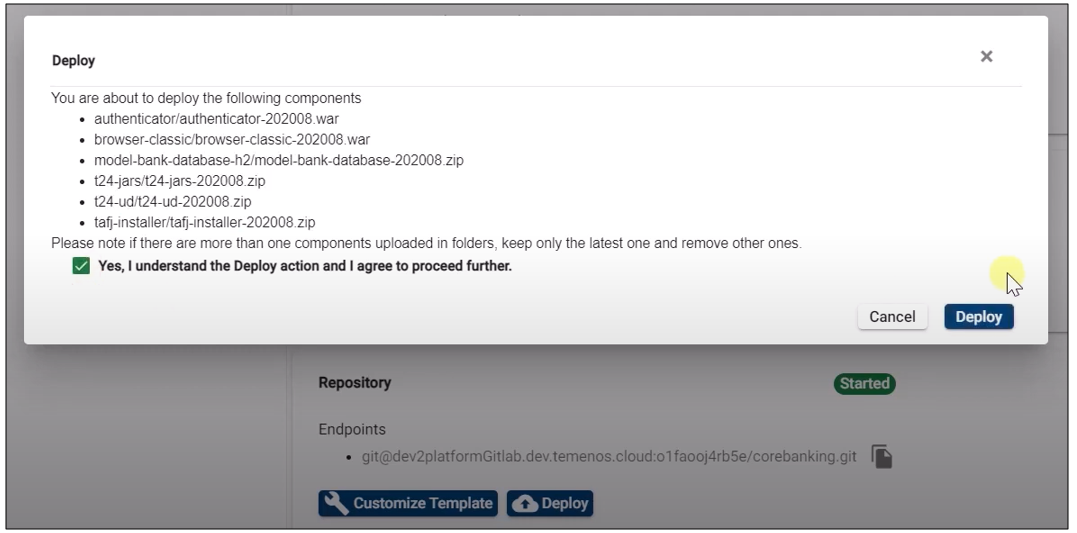
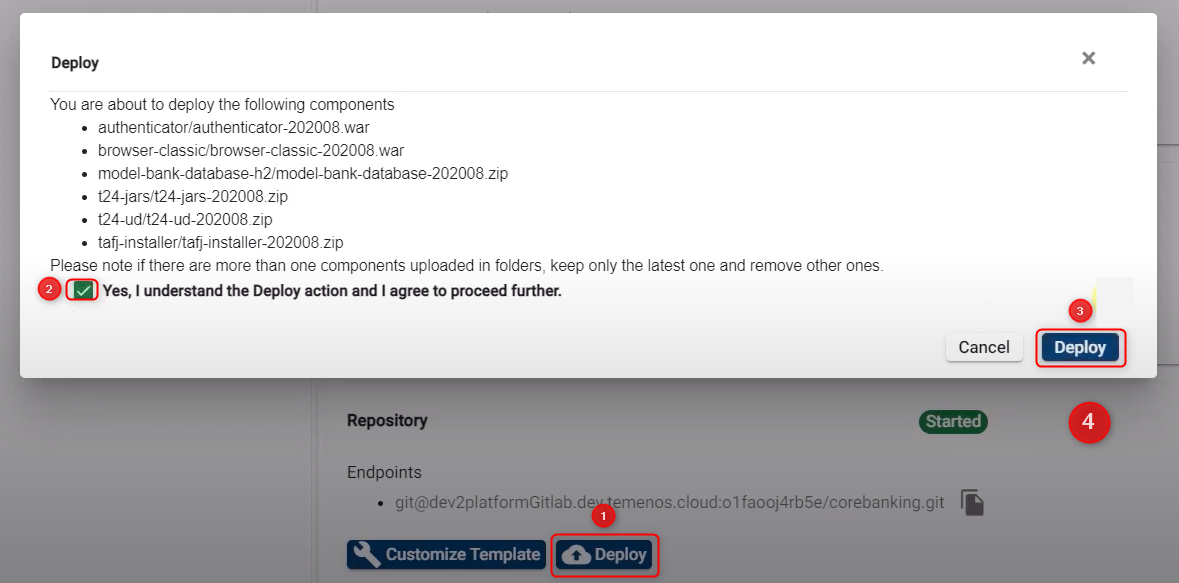
updated

diff --git a/docfx_project/home/techguides/deploy-an-update-to-an-existing-environment.md b/docfx_project/home/techguides/deploy-an-update-to-an-existing-environment.md
@@ -98,9 +98,13 @@ T24-updates.zip
 </br>
 
 # Trigger Deployment #
-•	After all required features are commited and pushed to Environment Repository, you have to deploy these features in your Environment. To do this, login to your organisation, select your environment, locate **Repository** Application and click the **Deploy** button.
+•	After all the required features are committed and pushed to the Environment Repository, you have to deploy these features in your Environment. To do this, login to your organisation, select your environment, locate **Repository** Application and click the **Deploy** button.
 
 ![repo deploy 1](./images/use-git-deploy.png)
+
+• A notification appears which displays the list of components that will be deployed. Tick the confirmation box to proceed:
+
+![deploy components](./images/deploy-components.png)
 
 •	The Environment and its manageable Applications status will be changed to <span style="color:#4d94ff;font-weight:600;">Deploying</span> during the deployment process and the Deploy button becomes disabled until the deployment is finished.
 
